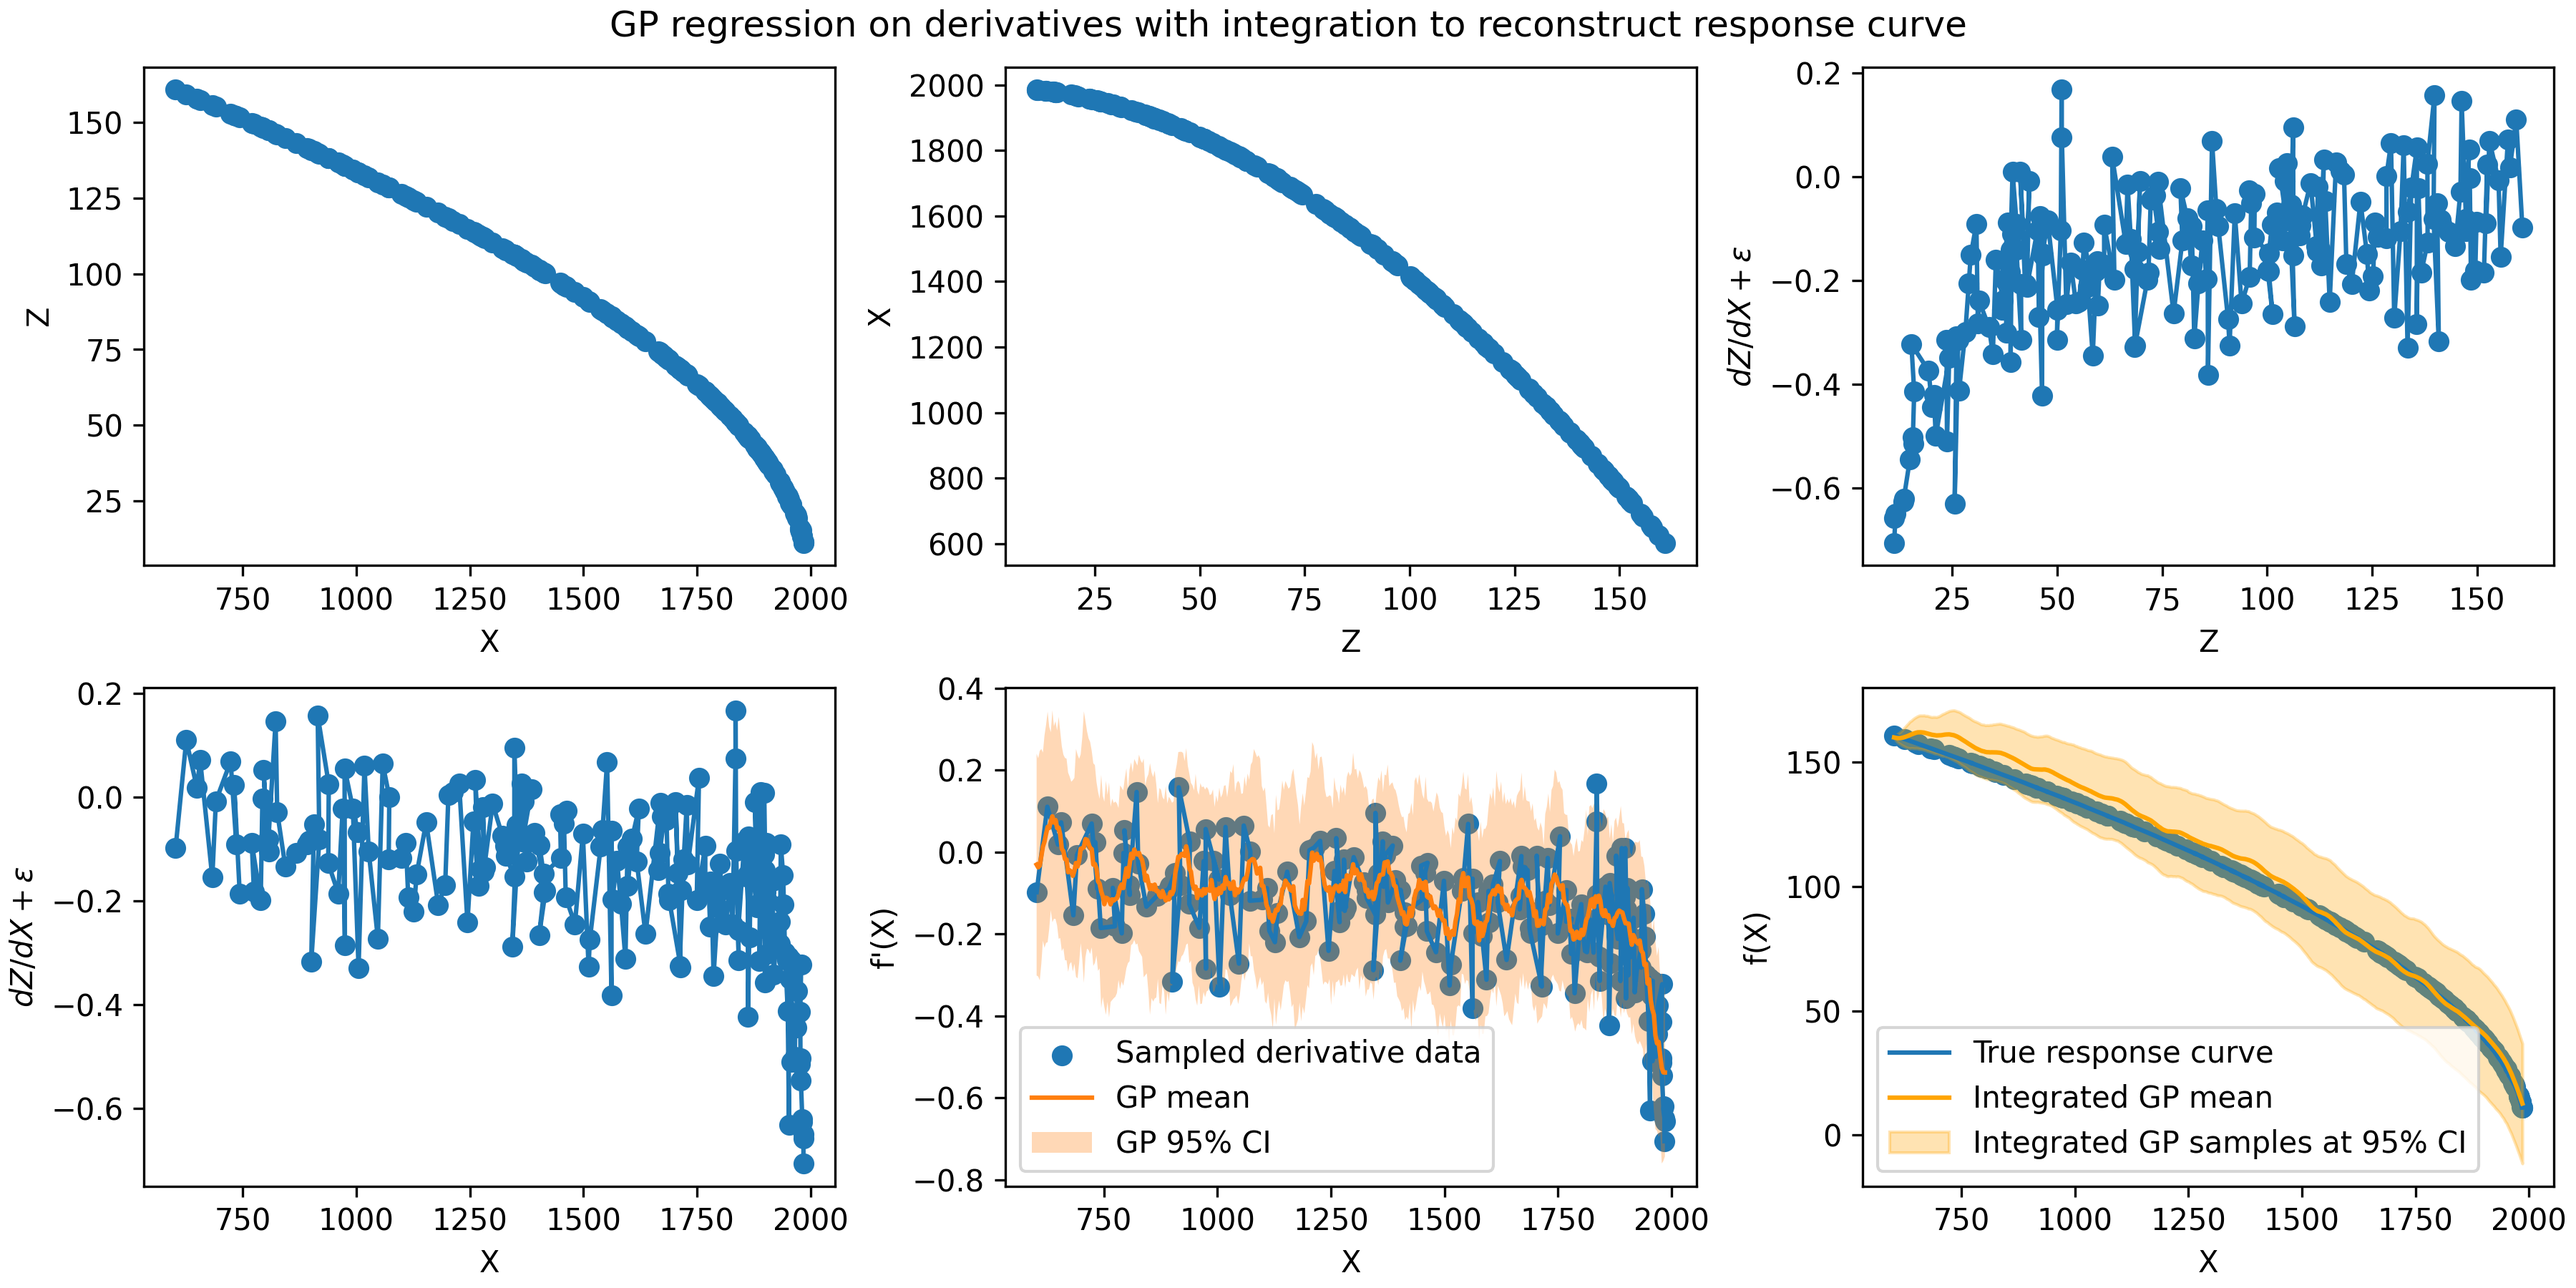
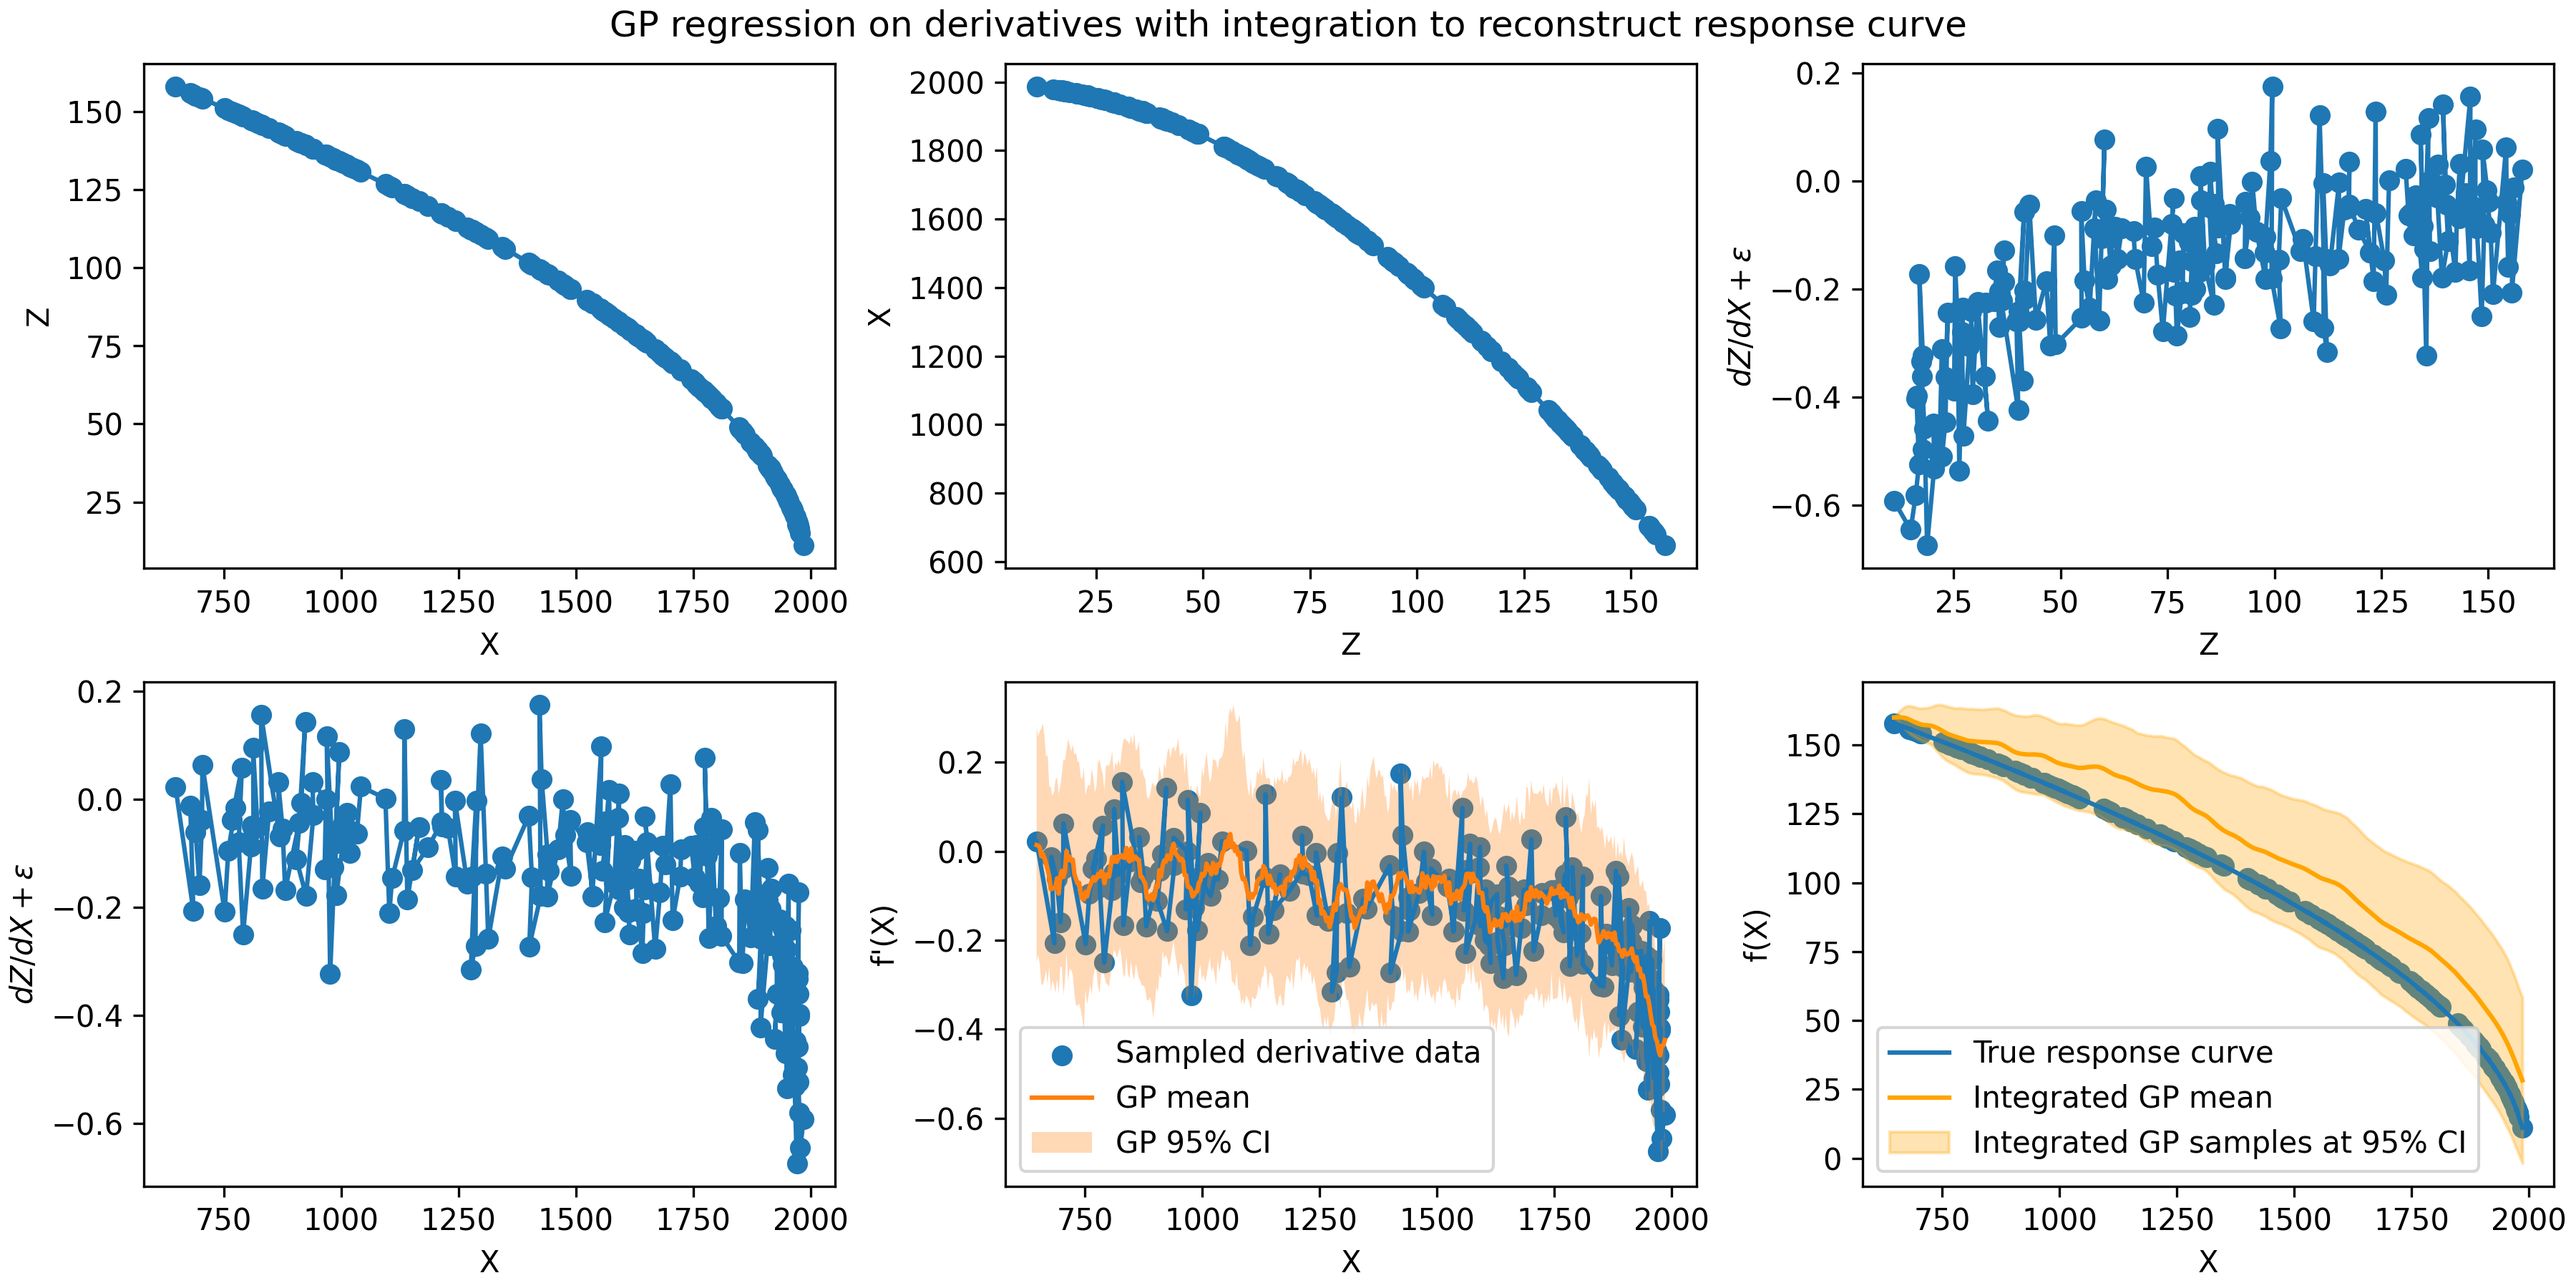
Update with sensor noise data

diff --git a/paper/main.tex b/paper/main.tex
@@ -60,23 +60,15 @@ Raw sensor data is continuously streamed into the database system. From there, e
 M_{i,s} = \frac{0.6745 \cdot (|\Delta X_{i,s}| - median_{w}{|\Delta X_{\cdot,s}|})}{MAD_w}
 \]
 
-Secondly, since watering events are assumed to cause stable changes in sensor measurements, persistent change was defined by considering change in sensor values without long term trends (e.g. drying) removed using an exponentially weighted moving average \cite{roberts2000control}:
+Given a integer lag $L$ to compute differences, a median window $w$, and a significance threshold $p$, an event was defined at a time point $t_i$ if $p_j > p$ for all $j$ between $i$ and $i+L$. The requirement for a sequence of significant results was used as a simple way to only take stable changes. These were selected manually since obtaining sufficiently good event detection itself was trivial on account of low individual-sensor noise (see results, between-sensor was much larger), although these parameters could be optimised in future work, it is unnecessary for this sensor class. 
 
-\[
-Y_i = X_i - EMWA(X)_i
-\] 
+\subsection{Noise characterisation}
 
-And check if all values within a post-event window $k$ exceed threshold $q$ relative to the pre-event sample.
-
-\[
-\min\limits_{i < j < i+k}{|Y_{j,s} - Y_{i,s}|} > q
-\]
-
-Given an event candidate at $t_{i+1}$ and window size $k$; for the sensors chosen, $X$ is decreasing in water content, so only events with negative change are assumed to be watering. In addition, only events for which all sensors attached to a given microcontroller agree on an event were taken. This resulted in a classification parameterized by two thresholds and two window sizes: $(p, q, k, w)$. These were selected manually since obtaining sufficiently good event detection itself was not challenging (see results), although they can be optimised in future work. 
+Sensors are subject to a range of noise sources. We consider two sources of noise: sensor noise per sample $\epsilon_{t}$, which could vary per sensor, per-sensor bias $\epsilon_s$, and per-placement bias $\epsilon_p$, which accounts for variation such as due to variable packing, soil-moisture spatial heterogeneity, or insertion depth. The first source of noise was characterised by retrieving data corresponding to event-free time intervals (possibly at equilibrium). In order to characterise the second and third, sensors were placed in a common pot and regularly removed and reinserted; inherent sensor bias should be stable between these exchange events, and bias due to variable packing should not be.
 
 \subsection{Automated response curve calibration}
 
-Consumer-grade soil moisture probes generally report coarse, normalized measurements. Here, we define soil water content as $Z$ as total water volume in a given container with fixed soil content (such as in a pot), instead of the usual $\theta$, which is the ratio of water to total soil volume. We assume that $Z$ itself is not directly measurable, although at a given watering, $\Delta Z$ is known, unlike $\Delta \theta$. We fix this for a given pot and soil volume, and refer to it as $W$. This is a simplifying assumption that disregards runoff and user measurement error. \\
+Consumer-grade soil moisture probes generally report coarse, normalized measurements. Here, we define soil water content as $Z$ as total water volume in a given container with fixed soil content (such as in a pot), instead of the usual $\theta$, which is the ratio of water to total soil volume. We assume that $Z$ itself is not directly measurable, although at a given watering, $\Delta Z$ is known, unlike $\Delta \theta$. We fix this for a given pot and soil volume, and refer to it as $W$. This is a simplifying assumption that disregards runoff and user measurement error.\\
 
 Many consumer-grade soil moisture probes report a normalized score (e.g. between 0 and 10). Importantly, with only $\Delta Z$ as a water volume, with $Z_{max}$ a normalized score can be obtained. $Z_{max}$ requires experiment to determine. Alternatively, a practical way to determine $X(Z_{max})$ is to take the minimum database sensor value under the assumption that fully soil has occurred at least once. \\
 
@@ -86,7 +78,7 @@ For convenience, the system relies on automatically detected watering events pre
 X_{i,s} = h(Z_{i,s}) + \epsilon_i + \epsilon_s
 \]
 
-Where $\epsilon_i$ is Gaussian sensor measurement noise and a $\epsilon_s$ Gaussian noise offset per-sensor per-placement (accounting for factors such as sensor-specific offsets and variable depth and packing). In this equation, both the response function $h(\cdot)$ and the water content $Z$ are unknown. For simplicity, we assume $h$ is monotonically decreasing and refer to $g=h^-1$. In terms of the data, we have samples:
+Where $\epsilon_i$ is Gaussian sensor measurement noise and a $\epsilon_s$ Gaussian noise offset per-sensor per-placement (accounting for factors such as sensor-specific offsets and variable depth and packing). In this equation, both the response function $h(\cdot)$ and the water content $Z$ are unknown. For simplicity, we assume $h$ is monotonically decreasing and refer to $g=h^{-1}$. In terms of the data, we have samples:
 
 \[
 \Big(\frac{\Delta Z}{\Delta X}\Big)_{i,s} \approx \Big(\frac{dz}{dx}\Big)_{i,s} + \epsilon_i + \epsilon_s
@@ -95,10 +87,16 @@ Where $\epsilon_i$ is Gaussian sensor measurement noise and a $\epsilon_s$ Gauss
 where:
 
 \[
-\Big(\frac{dz}{dx}\Big)_{i,s} = g'(X_{i,s}) + \epsilon_i + \epsilon_s
+\Big(\frac{dZ}{dX}\Big)_{i,s} = g'(X_{i,s})
 \]
 
-This is a basic regression problem except we estimate a derivative instead of $g$ itself. We use Gaussian process regression \cite{williams2006gaussian} using Scikit-learn \cite{pedregosa2011scikit} to estimate $g'$. Then, we sample from $\hat{g'}$ and integrate to produce estimates and CIs for $\hat{g}$.
+This is a basic regression problem except that it is required to estimate a derivative $g'$ instead of $g$ itself, and invert to get $h$. We used Gaussian process regression \cite{williams2006gaussian} using Scikit-learn \cite{pedregosa2011scikit} to estimate $g'$. Then, we sample from $\hat{g'}$ and integrate to produce estimates and CIs for $\hat{g}$.
+
+\[
+g'(x) \sim \mathcal{GP}(X, k(X, X'))
+\]
+
+For the kernel, a combination of Scikit-learn \cite{pedregosa2011scikit} kernels \texttt{C(1.0) * RBF(length\_scale=10.0, length\_scale\_bounds=(0.1, 20.0)) + WhiteKernel(noise\_level=0.01, noise\_level\_bounds=(1e-5, 20.0))} was utilized. For integration, \texttt{scipy.integrate.cumulative\_trapezoid} \cite{virtanen2020scipy} was used. In practice, $X(Z_{max})$ is easiest endpoint to obtain because it is the value of $X$ at which all added water is lost as runoff. Alternatively, $X(Z_{min} = 0.0)$ could be obtained as the sensor value of fully dry soil, but at low water content, measured permittivity is instead driven by other factors. Neither is exact but $X(Z_{max})$ more practical.\\
 
 \begin{figure}[htb!]
   \centering
@@ -107,11 +105,20 @@ This is a basic regression problem except we estimate a derivative instead of $g
   \label{fig:myfigure}
 \end{figure}
 
+In principle, since users are generally only interested in relative water content, if $W$ is instead a dimensionless ratio, such as water content divided by vessel volume, or the SWC $\theta$, data from across different pots can be aggregated provided that the pot volume for a given sensor is recorded.
+
 \subsection{Validation}
 
 \section{Results}
 
 \subsection{Sensor noise}
+
+\begin{figure}[htb!]
+  \centering
+  \includegraphics[width=1.0\linewidth]{images/equilibrium_noise.png}
+  \caption{TODO}
+  \label{fig:myfigure}
+\end{figure}
 
 \begin{enumerate}
     \item Sensor stationary noise and drying

diff --git a/hcultutils/hcultutils/plot_timeseries.py b/hcultutils/hcultutils/plot_timeseries.py
@@ -24,12 +24,10 @@ import numpy as np
 from hcultinf.inference import compute_ewma, compute_zscore, classify_events
 from hcultutils.fetch_data import fetch_data
 
-def _plot_raw_subsensor_readings(ax, raw_ax, times, values, ewma, name, args, locator):
+def _plot_raw_subsensor_readings(ax, raw_ax, times, values, name, args, locator):
     ax.plot(times, values, label=name, linewidth=1.2)
-    ax.plot(times, ewma, label=f"{name} EWMA", linewidth=1.2, linestyle="--")
     raw_ax.plot(times, values, label=name, linewidth=1.2)
     raw_ax.scatter(times, values, label=name, linewidth=1.2, s=0.5)
-    raw_ax.plot(times, ewma, label="EWMA", linewidth=1.2, linestyle="--")
     raw_ax.legend()
     raw_ax.set_title(name)
     raw_ax.set_xlabel("Timestamp")
@@ -124,15 +122,18 @@ def main(args) -> int:
     zscores_map: Dict[str, np.ndarray] = {}
     trigger_bools_map: Dict[str, np.ndarray] = {}
     values_map: Dict[str, np.ndarray] = {}
-    baseline_map: Dict[str, np.ndarray] = {}
     times_map: Dict[str, np.ndarray] = {}
     trigger_times: Dict[str, np.ndarray] = {}
+
+    equilibrium_x_values = []
+    equilibrium_delta_values = []
+    equilibrium_sensors = []
+    event_time_intervals = []
 
     for idx, name in enumerate(sensor_names):
         points = series[name]
         times = np.array([t for t, _ in points])
         values = np.array([v for _, v in points], dtype=float)
-        ewma = compute_ewma(values, args.ewma_alpha)
         zscores = compute_zscore(
             values, lag=args.diff_lag, mad_window=args.mad_window, c=args.mad_scale
         )
@@ -140,21 +141,34 @@ def main(args) -> int:
             values, lag=args.diff_lag * 3, mad_window=args.mad_window, c=args.mad_scale
         )
         zscores_map[name] = zscores
-        # print(args.z_pvalue)
-        pvals = 2 * (1 - norm.cdf(np.abs(zscores)))
-        pvals2 = 2 * (1 - norm.cdf(np.abs(zscores2)))
-        trigger_bools_map[name] = pvals < args.z_pvalue
-        values_map[name] = values
-        baseline_map[name] = ewma
         times_map[name] = times
-        triggers, starts = classify_events(values, args.diff_lag, args.mad_window, args.mad_scale, args.z_pvalue)
+        triggers, run_lengths, starts = classify_events(values, args.diff_lag, args.mad_window, args.mad_scale, args.z_pvalue)
         starts_t = times[starts]
 
-        trigger_times[name] = times[np.where(trigger_bools_map[name])[0]]
+        # compute the event time intervals
+        for i in range(len(starts)):
+            si = starts[i]
+            ei = si + run_lengths[i]
+            event_time_intervals.append((times[si], times[ei-1]))
+
+        starts_inds = np.where(starts)[0]
+        for i in range(len(starts_inds) - 1):
+            si = starts_inds[i]
+            ei = si + run_lengths[si]
+            next_si = starts_inds[i + 1]
+            print(si, ei)
+            print(f"[{ei} {next_si}]")
+            val_subset = values[ei:next_si]
+            if len(val_subset) > 50:
+                deltas = np.diff(val_subset)
+                equilibrium_x_values += list(val_subset[:-1])
+                equilibrium_delta_values += list(deltas)
+                equilibrium_sensors += [idx] * len(deltas)
+
         for tt in starts_t:
             raw_axes[idx].axvline(tt, color="orange", alpha=0.5, linewidth=1)
 
-        _plot_raw_subsensor_readings(ax, raw_axes[idx], times, values, ewma, name, args, locator)
+        _plot_raw_subsensor_readings(ax, raw_axes[idx], times, values, name, args, locator)
         # now plot observations on the raw axes as well
 
 
@@ -177,24 +191,10 @@ def main(args) -> int:
         zraw_axes.append(zfig.add_subplot(zgrid[r, c]))
     zax = zfig.add_subplot(zgrid[rows, :])
 
-    # rfig = plt.figure(figsize=(14, 4 + 4 * math.ceil(len(sensor_names) / 2)))
-    # rgrid = rfig.add_gridspec(rows + 1, cols)
-    # rraw_axes = []
-    # for i in range(len(sensor_names)):
-    #     r = i // cols
-    #     c = i % cols
-    #     rraw_axes.append(rfig.add_subplot(rgrid[r, c]))
-
-    # rax = rfig.add_subplot(rgrid[rows, :])
-
     for idx, name in enumerate(sensor_names):
         times = times_map[name]
         zscores = zscores_map[name]
-        # residuals = values_map[name] - baseline_map[name]
-        for tt in trigger_times[name]:
-            zraw_axes[idx].axvline(tt, color="red", alpha=0.1, linewidth=1)
         _plot_z_subsensor_readings(zax, zraw_axes[idx], times, zscores, name, args, locator)    
-        # _plot_residual_subsensor_readings(rax, rraw_axes[idx], times, residuals, name, args, locator)   
 
     zax.set_title("z(t) = d(t) / (c * MAD)")
     zax.set_xlabel("Timestamp")
@@ -228,6 +228,38 @@ def main(args) -> int:
         # print(f"Wrote {r_out}")
     else:
         plt.show()
+
+    fig, axes = plt.subplots(1, 2, figsize=(12, 6), constrained_layout=True)
+    ax = axes.flatten()
+
+    markers = ['o', 's', '^', 'D', 'v', '*', 'P', 'X']
+    colors = ["tab:blue", "tab:orange", "tab:green", "tab:red", "tab:purple", "tab:brown", "tab:pink", "tab:gray"]
+    for sensor in set(equilibrium_sensors):
+        sensor_mask = np.array(equilibrium_sensors) == sensor
+        ax[0].scatter(
+            np.array(equilibrium_x_values)[sensor_mask],
+            np.array(equilibrium_delta_values)[sensor_mask],
+            label=sensor_names[sensor],
+            marker=markers[sensor % len(markers)],
+            alpha=0.5
+        )
+        ax[1].hist(np.array(
+            equilibrium_delta_values)[sensor_mask],
+            bins=np.arange(-10.5, 10.5, 1.0), alpha=0.7, histtype='step',
+            label=f"Sensor {sensor}"
+        )
+        ax[1].set_xlabel("$\Delta X_t$")
+        ax[1].legend()
+
+    # plt.scatter(equilibrium_x_values, equilibrium_delta_values, cmap="tab10", c=equilibrium_sensors, marker=sensor_markers, alpha=0.5)
+    ax[0].set_xlabel("$X_t$")
+    ax[0].set_ylabel("$\Delta x_t$")
+    fig.suptitle("Equilibrium noise distribtion")
+    # ax[1].hist(equilibrium_delta_values, bins=np.arange(-10.5, 10.5, 1.0), alpha=0.7)
+    # ax[1].set_xlabel("$\Delta X_t$")
+    fig.savefig("equilibrium_noise.png", dpi=300)
+
+    plt.show()
 
     return 0
 

diff --git a/hcultinf/hcultinf/inference.py b/hcultinf/hcultinf/inference.py
@@ -65,9 +65,10 @@ def classify_events(values: np.ndarray, lag: int, mad_window: int, c: float, pth
     pvalues = zscore_pvalues(zscores)
     triggers = pvalues < pthresh
 
-    start_lengths = run_lengths_at_starts(triggers) * triggers
+    run_lengths = run_lengths_at_starts(triggers)
+    start_lengths = run_lengths * triggers
     starts = start_lengths >= lag
-    return triggers, starts
+    return triggers, run_lengths, starts
 
 def compute_ewma(values: np.ndarray, alpha: float) -> np.ndarray:
     if not (0 < alpha <= 1):
